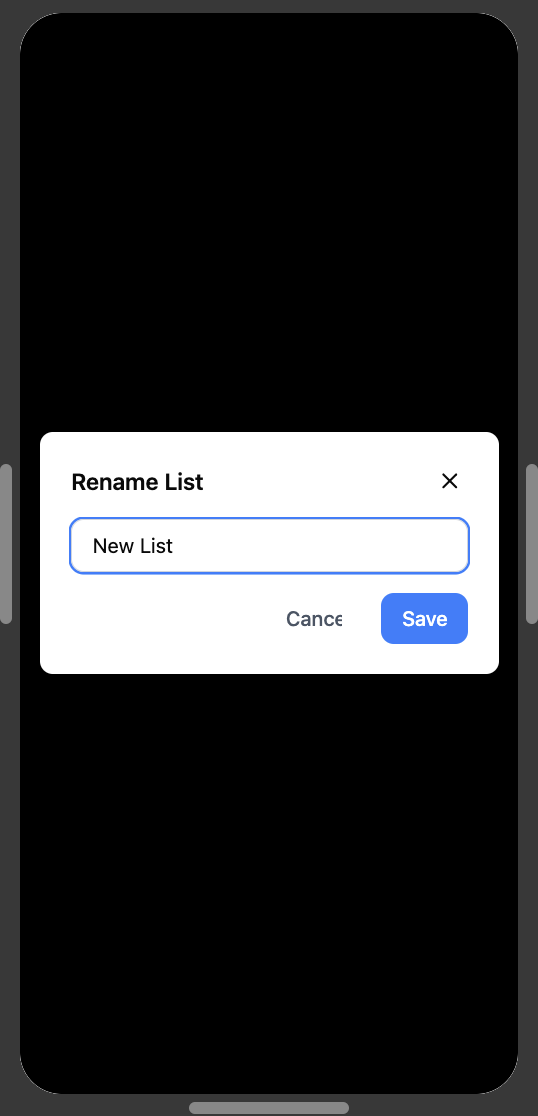
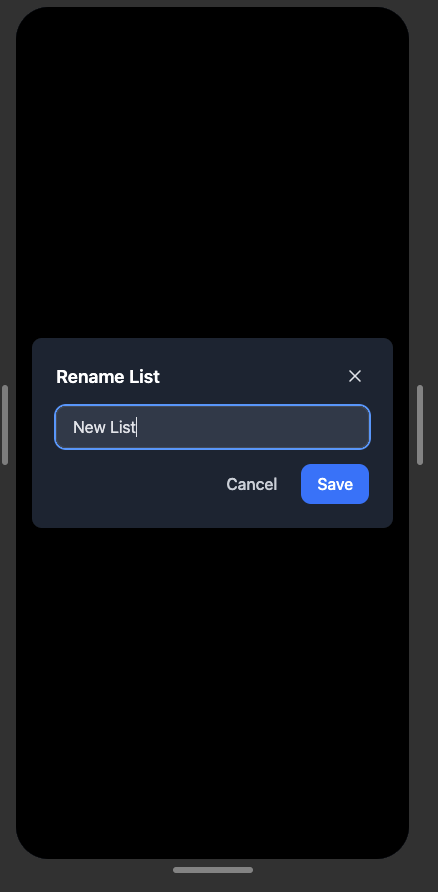
Refresh context screenshots

Changed region(s): [[0.0297, 0.0, 1.0, 0.9989], [0.0297, 0.0, 0.8607, 0.0303], [0.0, 0.3935, 0.0297, 0.5751]]

diff --git a/CLAUDE.md b/CLAUDE.md
@@ -10,7 +10,8 @@ PuntList is a mobile list app where items can be moved between lists with one ta
 
 - Users create multiple named lists
 - Each list item has a **checkbox** (check off) and a **move arrow →** (send to another list instantly)
-- Move destinations are configured per-list in a Move Settings screen
+- Move destinations are configured per-list in the settings page
+- The move arrow is only shown on items when a destination is configured for that list
 - Checked items are crossed out and sorted to the bottom
 
 ## Screen Flow
@@ -20,17 +21,17 @@ See `Screenshot 2026-03-07 at 11.40.37 PM.png` for the whiteboard wireframe.
 **App Launch:** Tap app → Loading screen → Lists screen
 
 Screens:
-1. **Lists Screen** — shows all lists, gear icon → Move Settings, + → new list
-2. **List View** — items with checkbox + move arrow, title tap → rename dialog, text input to add items
+1. **Lists Screen** — shows all lists, link to settings, and UX to add new list
+2. **List View** — items with checkbox + move arrow (when destination configured), title tap → rename dialog, text input to add items
 3. **Title Edit Dialog** — rename a list inline
-4. **Move Settings** — configure destination list for each source list's move arrow
+4. **Settings** — theme preferences + configure destination list for each source list's move arrow
 5. **Popup/Explainer** — onboarding for the move feature
 
 **Screen details:**
-- Lists Screen: title "Lists", gear icon top-right; empty state shows "Tap '+' to make a list"
-- List View: back arrow (←); item row = checkbox (left) | text (middle) | move arrow → (right); active items at top, checked/crossed-out at bottom, text input at bottom
-- Move Settings: source lists (including an "Unowned" category) each map to one destination list
-- Popup/Explainer: triggered by hamburger/info icon *inside* Move Settings
+- Lists Screen: title "Lists", gear icon top-right; empty state when no lists exist
+- List View: active items at top, checked/crossed-out at bottom, text input at bottom; lists without a configured destination show a message indicating no destination is set
+- Settings: theme preferences (Light/Dark/System); each list maps to one destination list (or none)
+- Popup/Explainer: triggered by help icon inside Settings
 
 **Key Interactions:**
 
@@ -40,5 +41,5 @@ Screens:
 | Tap move arrow (→) on item | Instantly moves item to configured destination list |
 | Tap list title | Opens title edit dialog |
 | Tap + on Lists screen | Creates and opens a new list |
-| Tap gear on Lists screen | Opens Move Settings |
-| Configure Move Settings | Sets destination list for each source list's move arrow |
+| Tap gear on Lists screen | Opens Settings |
+| Configure move destination in Settings | Sets destination list for each source list's move arrow |
